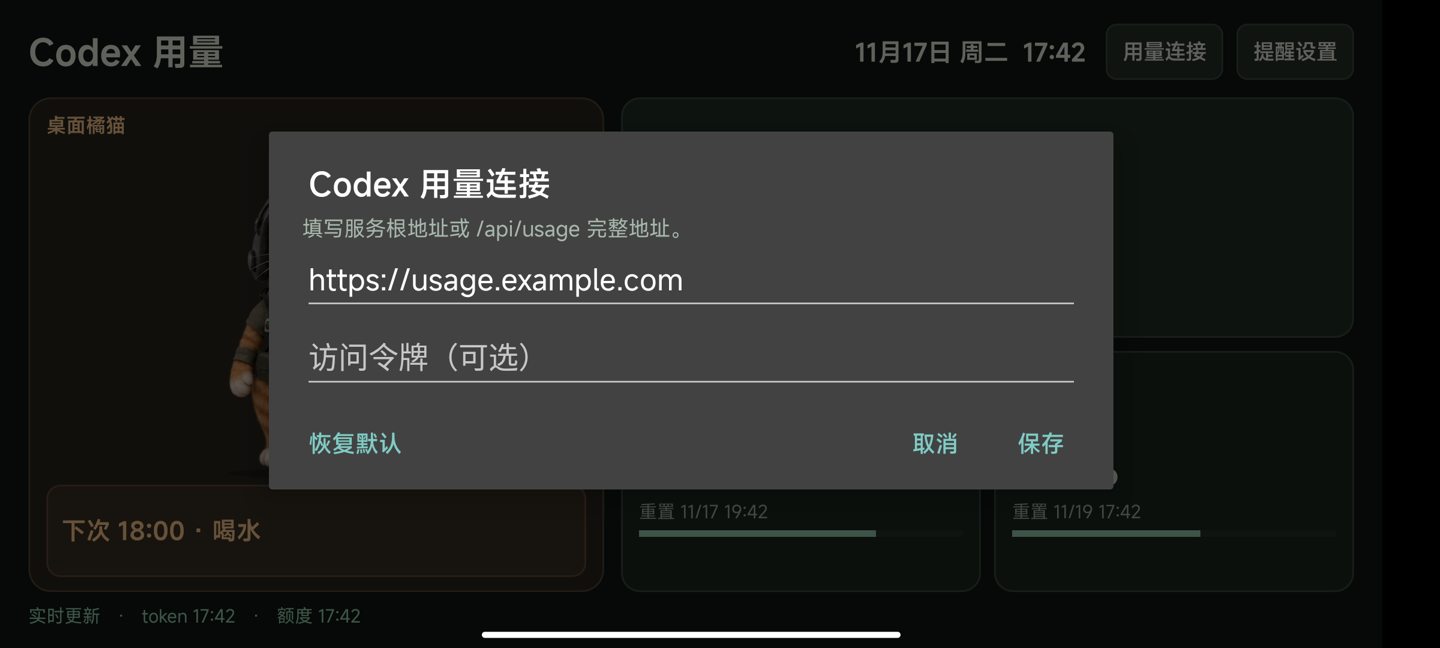
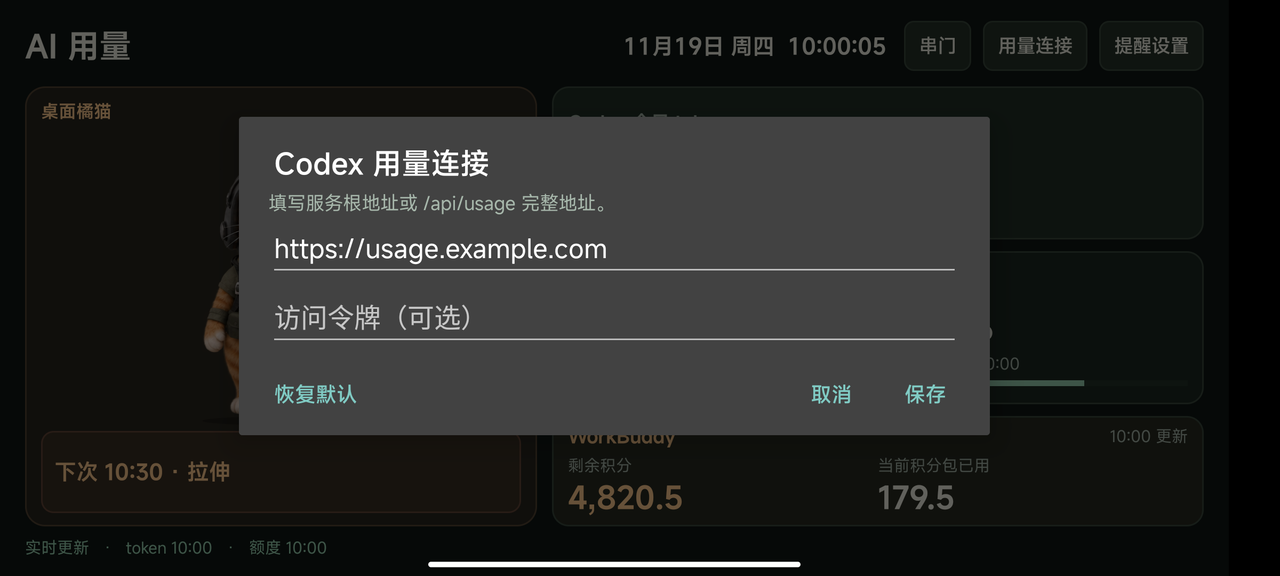
Refresh dashboard screenshots for version 1.13.3

diff --git a/README.md b/README.md
@@ -1,16 +1,20 @@
 # 橘猫看板
 
- **橘猫看板**是原生 Android 应用，支持 Android 11 或更高版本。打开后进入反向横屏，前台显示时屏幕保持常亮。空闲时，橘猫每 6 秒眨一次眼，每隔 45–75 秒随机挥爪、打哈欠或跳一段舞步。三个舞步分别有八张完整姿势。点一下可以摸摸它。看板同时显示精确到秒的北京时间、Codex 用量和下一项提醒。
+**橘猫看板**把闲置的 Android 手机变成一块横屏常亮的 AI 用量屏，显示 Codex 今日 token、5 小时和每周剩余额度，以及 WorkBuddy 积分。桌面橘猫会举杯提醒喝水，伸懒腰后打哈欠，也能在看板和另一台手机的小窝之间串门。支持 Android 11 及以上。
 
 ## 界面截图
 
-![橘猫看板主界面，显示 Codex 今日 token 和两档剩余额度](docs/media/dashboard.png)
+![橘猫看板 1.13.3 主界面，显示 Codex 今日 token、两档剩余额度和 WorkBuddy 积分](docs/media/dashboard.png)
 
-| 自定义用量连接 | 喝水提醒 |
+| 喝水提醒 | 拉伸提醒 |
 | --- | --- |
-| ![在安卓端设置自定义服务地址](docs/media/connection.png) | ![橘猫举杯提示喝水](docs/media/water-reminder.png) |
+| ![橘猫举杯提示喝水](docs/media/water-reminder.png) | ![橘猫抬起前爪伸懒腰](docs/media/stretch-reminder.png) |
 
-截图使用演示用量和示例服务地址。
+| 双屏串门小窝 | 自定义用量连接 |
+| --- | --- |
+| ![橘猫串门后在小窝枕头上打盹](docs/media/cat-nest.png) | ![在安卓端设置示例用量服务地址](docs/media/connection.png) |
+
+截图来自 1.13.3 的演示界面，用量、额度、积分和服务地址均为示例。
 
 ## 宠物动作
 
